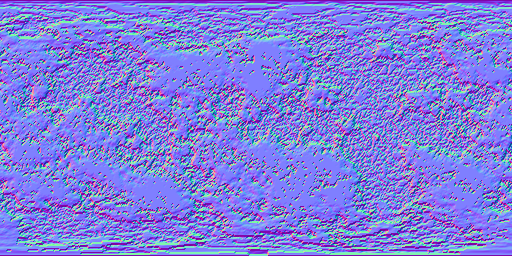
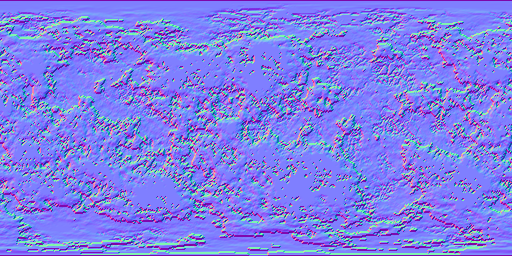
linked the planets color values to the seed, but it only link the hue, saturation and brightness, so that needs more work

diff --git a/planet_texture_generator.py b/planet_texture_generator.py
@@ -21,6 +21,7 @@ Outputs:
 from __future__ import annotations
 
 import argparse
+import colorsys
 import json
 import math
 from dataclasses import asdict, dataclass
@@ -188,6 +189,66 @@ COLORS = {
     "snow": np.array([235, 242, 238], dtype=np.float32),
     "ice": np.array([194, 228, 240], dtype=np.float32),
 }
+
+
+def vary_palette(seed, preset):
+    rng = np.random.default_rng(seed * 1009 + sum(ord(c) for c in preset))
+    global_hue = rng.uniform(-0.035, 0.035)
+    global_sat = rng.uniform(0.88, 1.18)
+    global_val = rng.uniform(0.90, 1.10)
+    category_hue = {
+        "deep_ocean": rng.uniform(-0.045, 0.045),
+        "ocean_mid": rng.uniform(-0.045, 0.045),
+        "shallow_ocean": rng.uniform(-0.055, 0.055),
+        "beach": rng.uniform(-0.035, 0.035),
+        "dark_forest": rng.uniform(-0.030, 0.030),
+        "forest": rng.uniform(-0.030, 0.030),
+        "grass": rng.uniform(-0.040, 0.040),
+        "dry_plain": rng.uniform(-0.045, 0.045),
+        "desert": rng.uniform(-0.050, 0.050),
+        "rock": rng.uniform(-0.025, 0.025),
+        "snow": rng.uniform(-0.012, 0.012),
+        "ice": rng.uniform(-0.025, 0.025),
+    }
+    category_sat = {
+        "deep_ocean": rng.uniform(0.90, 1.22),
+        "ocean_mid": rng.uniform(0.90, 1.22),
+        "shallow_ocean": rng.uniform(0.88, 1.25),
+        "beach": rng.uniform(0.82, 1.18),
+        "dark_forest": rng.uniform(0.82, 1.20),
+        "forest": rng.uniform(0.82, 1.20),
+        "grass": rng.uniform(0.82, 1.18),
+        "dry_plain": rng.uniform(0.78, 1.18),
+        "desert": rng.uniform(0.82, 1.24),
+        "rock": rng.uniform(0.72, 1.12),
+        "snow": rng.uniform(0.82, 1.04),
+        "ice": rng.uniform(0.86, 1.12),
+    }
+    category_val = {
+        "deep_ocean": rng.uniform(0.82, 1.12),
+        "ocean_mid": rng.uniform(0.86, 1.14),
+        "shallow_ocean": rng.uniform(0.88, 1.18),
+        "beach": rng.uniform(0.86, 1.15),
+        "dark_forest": rng.uniform(0.78, 1.12),
+        "forest": rng.uniform(0.82, 1.14),
+        "grass": rng.uniform(0.82, 1.15),
+        "dry_plain": rng.uniform(0.84, 1.16),
+        "desert": rng.uniform(0.86, 1.18),
+        "rock": rng.uniform(0.78, 1.16),
+        "snow": rng.uniform(0.92, 1.08),
+        "ice": rng.uniform(0.90, 1.12),
+    }
+
+    palette = {}
+    for name, rgb in COLORS.items():
+        r, g, b = (rgb / 255.0).tolist()
+        h, s, v = colorsys.rgb_to_hsv(r, g, b)
+        h = (h + global_hue + category_hue[name]) % 1.0
+        s = np.clip(s * global_sat * category_sat[name], 0.0, 1.0)
+        v = np.clip(v * global_val * category_val[name], 0.0, 1.0)
+        varied = colorsys.hsv_to_rgb(h, s, v)
+        palette[name] = np.array(varied, dtype=np.float32) * 255.0
+    return palette
 
 
 @dataclass
@@ -369,6 +430,7 @@ def render_globe_preview(color, height_map, out_path, size=900):
 def build_maps(cfg):
     x, y, z, lat, lon = sphere_vectors(cfg.width, cfg.height)
     lat_abs = np.abs(np.sin(lat))
+    colors = vary_palette(cfg.seed, cfg.preset)
 
     continent = fbm_3d(
         x,
@@ -401,8 +463,9 @@ def build_maps(cfg):
         + cfg.seed * 0.017
     )
     island_field = lerp(island_noise, island_noise * 0.72 + chain * 0.28, cfg.island_chain_strength)
+    island_gate = fbm_3d(x, y, z, max(2.0, cfg.island_scale * 0.18), 3, 0.54, cfg.seed + 1881)
     island_cutoff = np.clip(cfg.island_threshold - cfg.island_density * 0.22, 0.20, 0.96)
-    island_land = (island_field > island_cutoff) & (~continent_land)
+    island_land = (island_field > island_cutoff) & (island_gate > 0.42) & (~continent_land)
     land = continent_land | island_land
 
     shoreline_distance = np.abs(land_field - threshold)
@@ -423,30 +486,32 @@ def build_maps(cfg):
 
     ridge = 1.0 - np.abs(fbm_3d(x, y, z, cfg.mountain_scale, 6, 0.67, cfg.seed + 4111) * 2.0 - 1.0)
     ridge = np.power(np.clip(ridge, 0.0, 1.0), 1.0 + cfg.mountain_sharpness * 3.0)
+    mountain_gate = fbm_3d(x, y, z, max(1.0, cfg.mountain_scale * 0.32), 4, 0.56, cfg.seed + 4229)
     mountain_cut = np.clip(1.0 - cfg.mountain_density, 0.05, 0.95)
     mountain_mask = smoothstep(mountain_cut, min(1.0, mountain_cut + 0.28), ridge)
+    mountain_mask *= smoothstep(0.45, 0.76, mountain_gate)
 
     color = np.zeros((cfg.height, cfg.width, 3), dtype=np.float32)
     ocean_variation = fbm_3d(x, y, z, 18.0, 4, 0.5, cfg.seed + 5111)
-    ocean_color = color_blend(COLORS["deep_ocean"], COLORS["ocean_mid"], ocean_variation * cfg.ocean_current_strength)
-    ocean_color = color_blend(ocean_color, COLORS["shallow_ocean"], shelf)
+    ocean_color = color_blend(colors["deep_ocean"], colors["ocean_mid"], ocean_variation * cfg.ocean_current_strength)
+    ocean_color = color_blend(ocean_color, colors["shallow_ocean"], shelf)
     color[:] = ocean_color
 
-    land_color = color_blend(COLORS["grass"], COLORS["dry_plain"], np.clip(biome + desert_bias - 0.45, 0.0, 1.0))
-    land_color = color_blend(land_color, COLORS["desert"], np.clip(desert_bias + biome * 0.35 - 0.28, 0.0, 1.0))
+    land_color = color_blend(colors["grass"], colors["dry_plain"], np.clip(biome + desert_bias - 0.45, 0.0, 1.0))
+    land_color = color_blend(land_color, colors["desert"], np.clip(desert_bias + biome * 0.35 - 0.28, 0.0, 1.0))
     forest_mix = np.clip(forest_bias + moisture * 0.35 - biome * 0.35, 0.0, 1.0)
-    land_color = color_blend(land_color, COLORS["forest"], forest_mix)
-    land_color = color_blend(land_color, COLORS["dark_forest"], np.clip(forest_mix * moisture - 0.15, 0.0, 0.65))
-    land_color = color_blend(land_color, COLORS["rock"], mountain_mask * 0.74)
-    land_color = color_blend(land_color, COLORS["beach"], shoreline * 0.78)
+    land_color = color_blend(land_color, colors["forest"], forest_mix)
+    land_color = color_blend(land_color, colors["dark_forest"], np.clip(forest_mix * moisture - 0.15, 0.0, 0.65))
+    land_color = color_blend(land_color, colors["rock"], mountain_mask * 0.74)
+    land_color = color_blend(land_color, colors["beach"], shoreline * 0.78)
 
     snow_mask = smoothstep(cfg.snow_threshold, 1.0, mountain_mask * 0.72 + lat_abs * 0.38)
     ice_start = max(0.02, 1.0 - cfg.polar_ice_size)
     polar_ice = smoothstep(ice_start, min(1.0, ice_start + 0.12), lat_abs)
     ice_mask = np.maximum(snow_mask, polar_ice)
-    land_color = color_blend(land_color, COLORS["snow"], snow_mask)
-    land_color = color_blend(land_color, COLORS["ice"], polar_ice)
-    ocean_color_with_ice = color_blend(color, COLORS["ice"], np.where(~land, polar_ice * 0.72, 0.0))
+    land_color = color_blend(land_color, colors["snow"], snow_mask)
+    land_color = color_blend(land_color, colors["ice"], polar_ice)
+    ocean_color_with_ice = color_blend(color, colors["ice"], np.where(~land, polar_ice * 0.72, 0.0))
     color = np.where(land[..., None], land_color, ocean_color_with_ice)
 
     base_land_height = smoothstep(threshold - cfg.continent_contrast, threshold + cfg.continent_contrast, land_field)
@@ -615,7 +680,12 @@ def main():
     render_globe_preview(maps["color"], maps["height"], out_dir / "preview.png")
     write_html_preview(out_dir, f"{cfg.preset} planet preview")
 
-    (out_dir / "preset.json").write_text(json.dumps(asdict(cfg), indent=2), encoding="utf-8")
+    metadata = asdict(cfg)
+    metadata["resolved_palette_rgb"] = {
+        name: [int(round(channel)) for channel in color]
+        for name, color in vary_palette(cfg.seed, cfg.preset).items()
+    }
+    (out_dir / "preset.json").write_text(json.dumps(metadata, indent=2), encoding="utf-8")
     print(f"Wrote planet maps to {out_dir.resolve()}")
 
 
